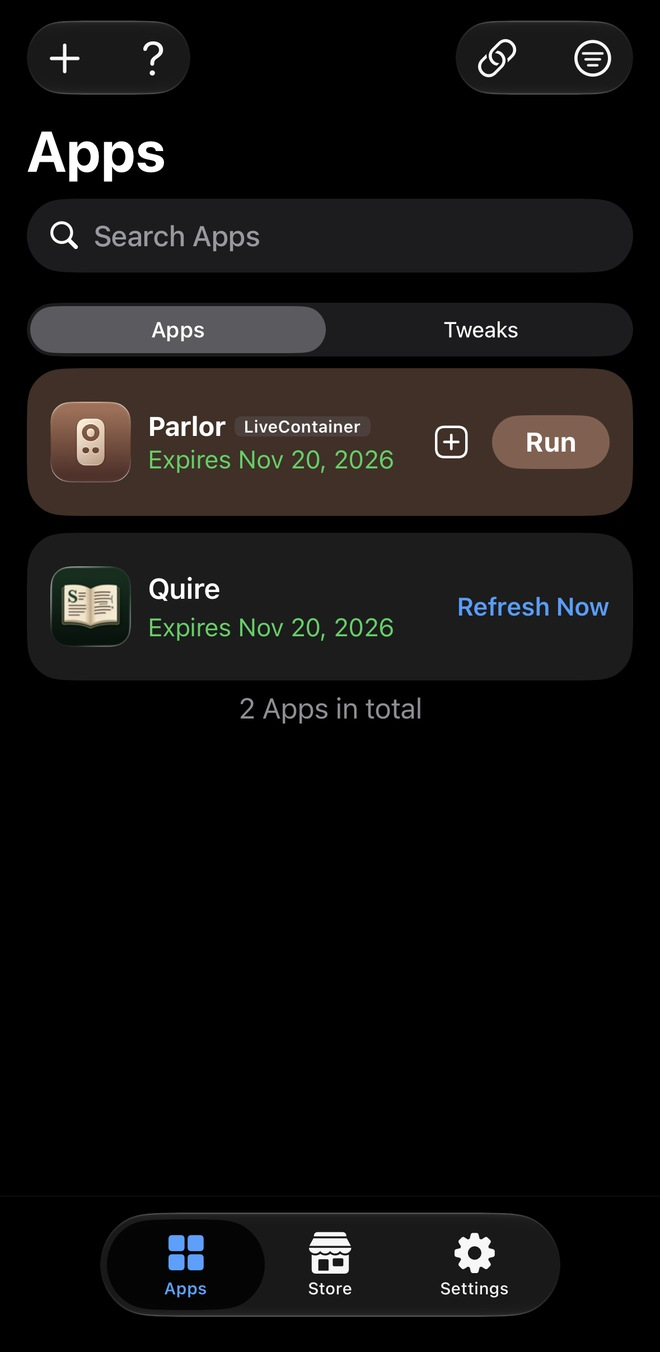
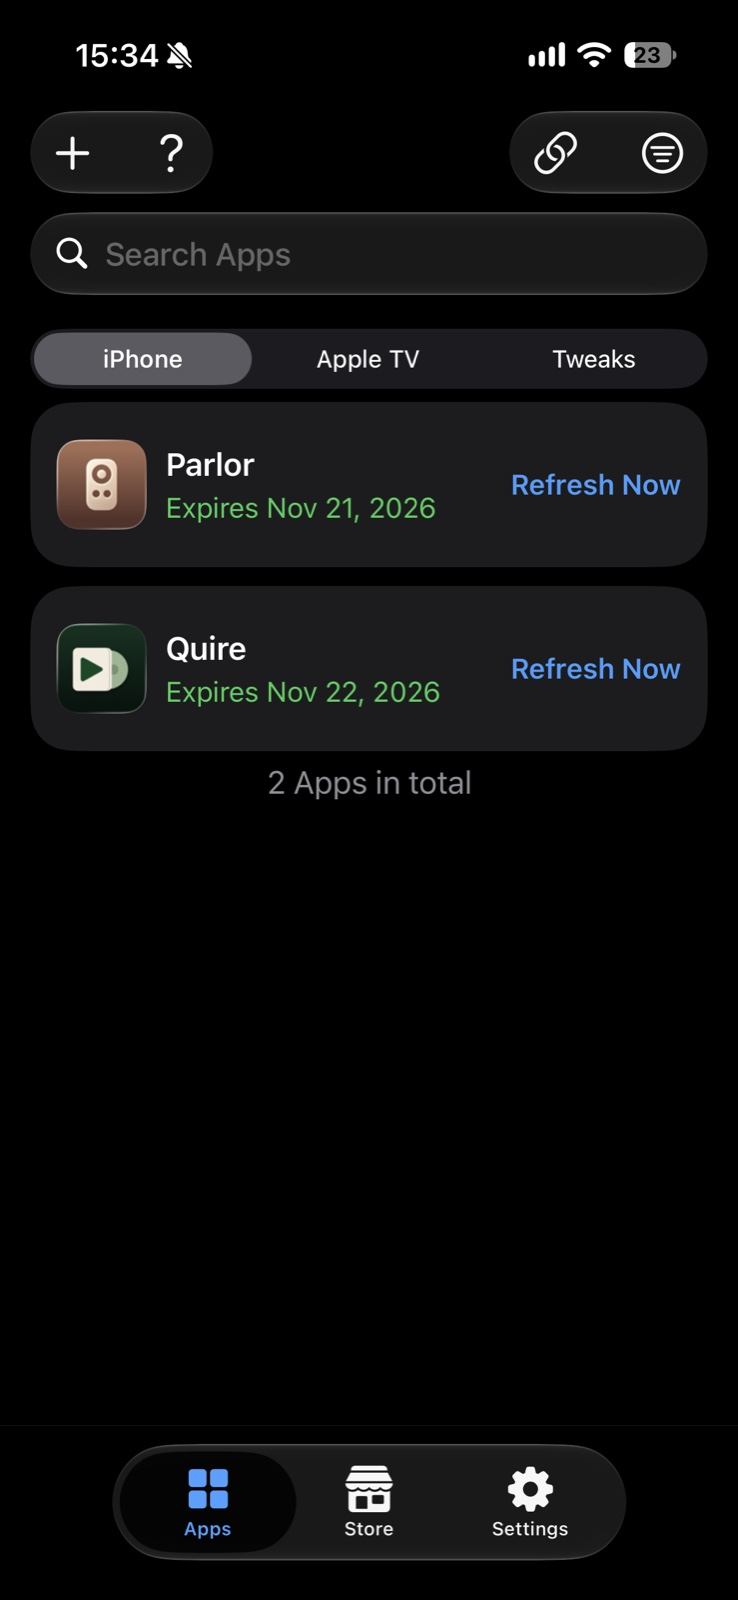
Show the new iPhone Apps screen in the README

Changed region(s): [[0.0303, 0.0, 0.9697, 0.5281], [0.1818, 0.8698, 0.7879, 0.9941], [0.7879, 0.9009, 0.8182, 0.932]]

diff --git a/README.md b/README.md
@@ -33,7 +33,7 @@
 ### iPhone
 
 <p align="center">
-  <a href="docs/screenshots/ios.jpg"><img src="docs/screenshots/ios.jpg" width="280" alt="SideRelay Apps on iPhone showing installed apps, refresh controls, and LiveContainer"></a>
+  <a href="docs/screenshots/ios.jpg"><img src="docs/screenshots/ios.jpg" width="280" alt="SideRelay Apps on iPhone with iPhone, Apple TV, and Tweaks tabs, installed apps, and signature expiry dates"></a>
   <a href="docs/screenshots/ios-store.jpg"><img src="docs/screenshots/ios-store.jpg" width="280" alt="SideRelay Store on iPhone with recent releases and app categories"></a>
 </p>
 
